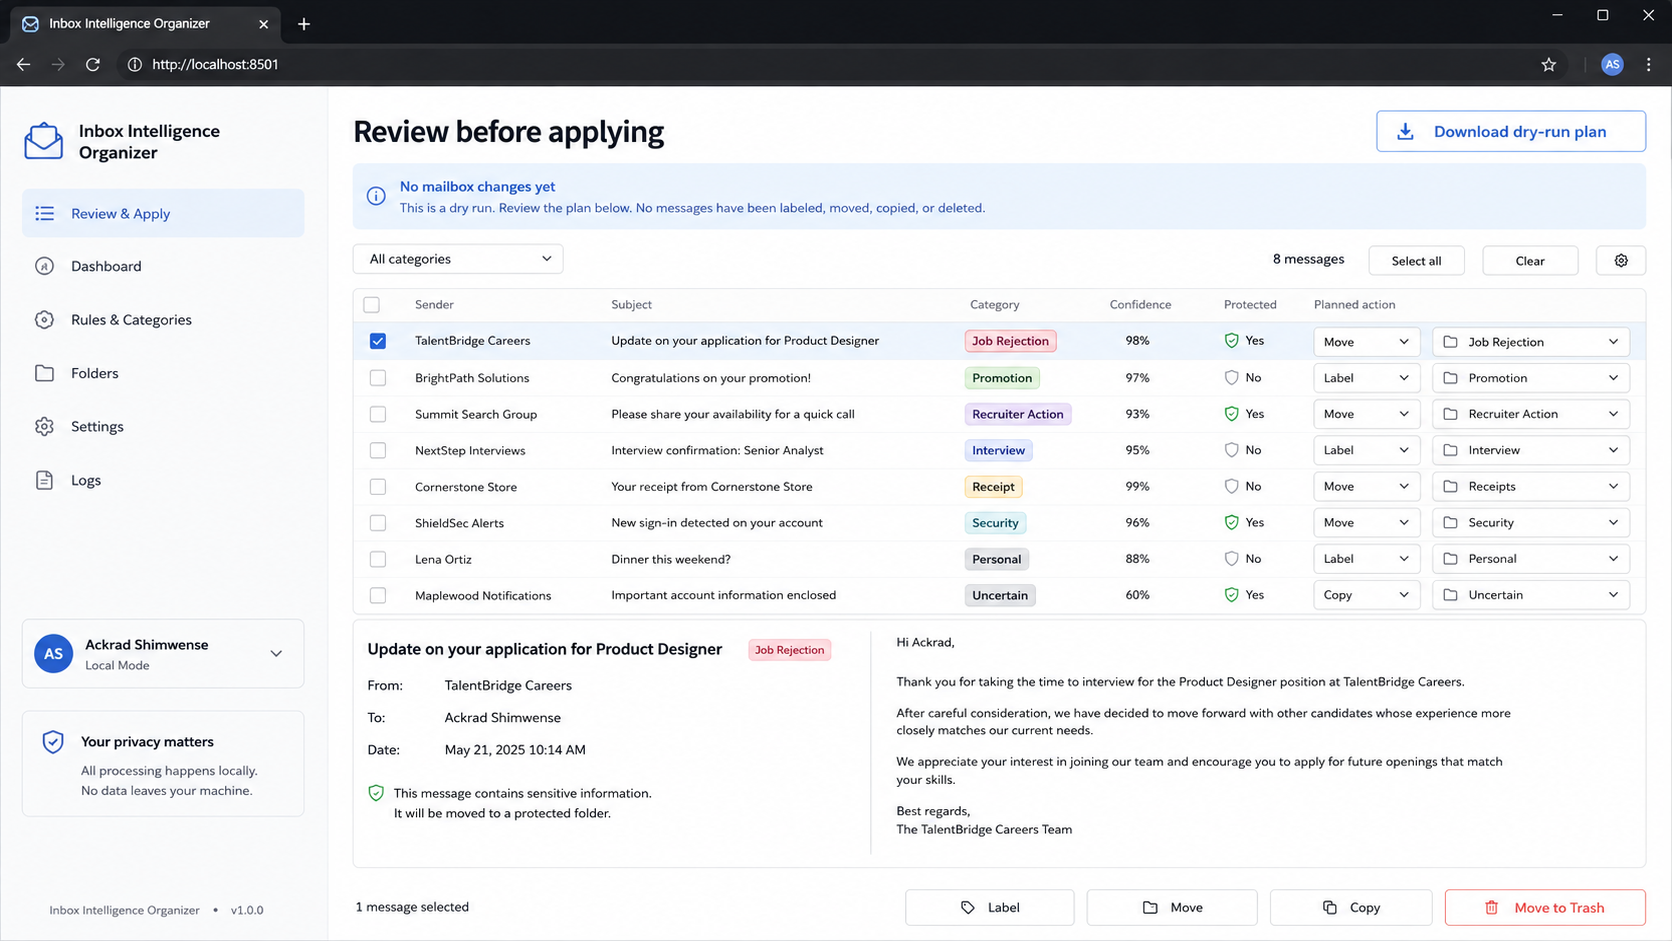
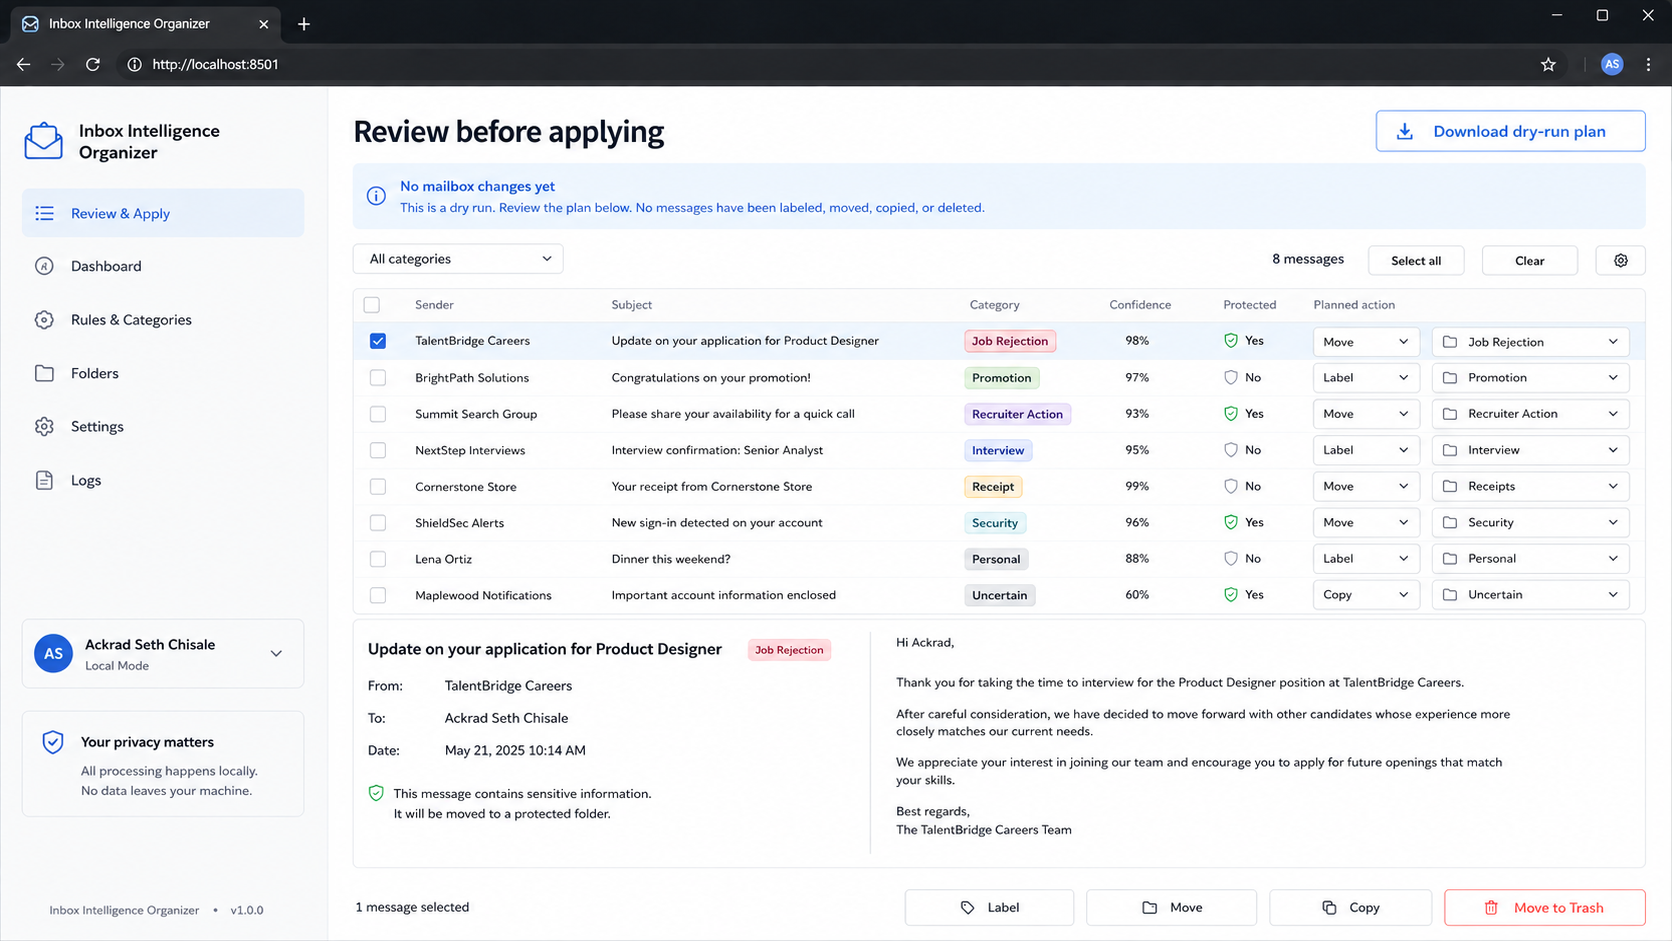
Correct author identity in project documentation

diff --git a/README.md b/README.md
@@ -1,6 +1,6 @@
 # Inbox Intelligence Organizer
 
-**Built by Ackrad Shimwense**
+**Built by Ackrad Seth Chisale**
 
 Inbox Intelligence Organizer is a local, review-first application for classifying and bulk-organizing Gmail, Microsoft 365/Outlook, Yahoo and standards-compliant IMAP mailboxes. It reads the actual parsed message—not only the subject line—and turns a crowded inbox into a review table before any account change is allowed.
 
